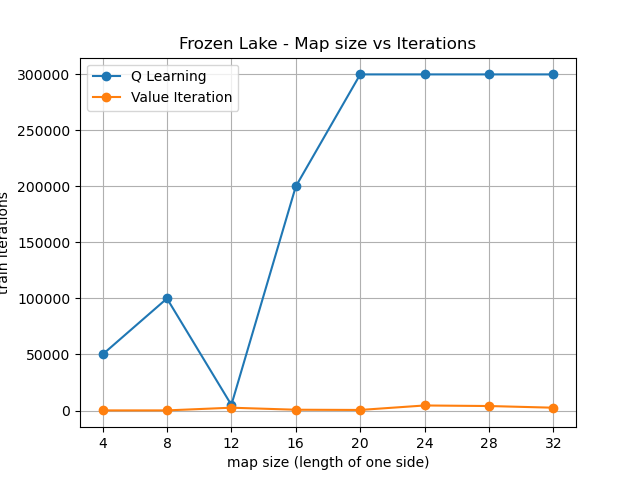
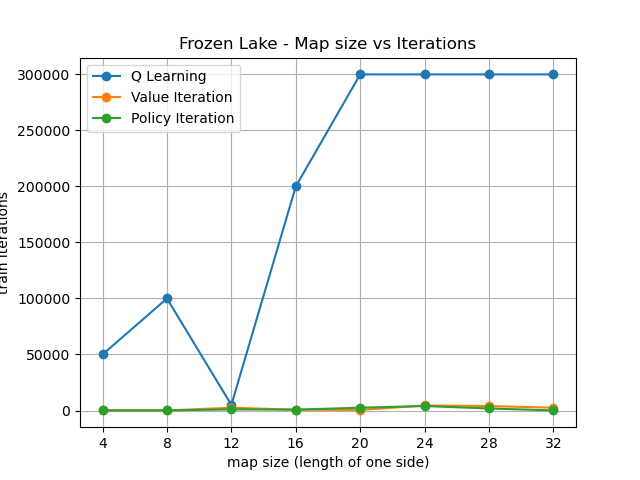
Collected stats for policy iteration

Changed region(s): [[0.1562, 0.8438, 0.875, 0.875], [0.125, 0.2188, 0.375, 0.2812]]

diff --git a/frozen_lake_analysis.py b/frozen_lake_analysis.py
@@ -8,11 +8,13 @@ import matplotlib.pyplot as plt
 
 def mapsize_vs_gameswon(map_p=0.8):
     qlearning = pd.read_json(f'qlearning_stats_{map_p}.json')
-    value_iteration = pd.read_json(f'value_iteration_stats_{map_p}.json')
+    valueit = pd.read_json(f'value_iteration_stats_{map_p}.json')
+    policyit = pd.read_json(f'policy_iteration_stats_{map_p}.json')
 
     df = pd.DataFrame()
     df['Q Learning'] = 100 - qlearning.groupby('map_size').min()['lost_games_perc']
-    df['Value Iteration'] = 100 - value_iteration.groupby('map_size').min()['lost_games_perc']
+    df['Value Iteration'] = 100 - valueit.groupby('map_size').min()['lost_games_perc']
+    df['Policy Iteration'] = 100 - policyit.groupby('map_size').min()['lost_games_perc']
 
     df.plot(marker='o')
     plt.title('Frozen Lake - Map size vs Games won')
@@ -30,6 +32,7 @@ def mapsize_vs_iterations(map_p=0.8):
 
     qlearning = pd.read_json(f'qlearning_stats_{map_p}.json')
     valueit = pd.read_json(f'value_iteration_stats_{map_p}.json')
+    policyit = pd.read_json(f'policy_iteration_stats_{map_p}.json')
 
     qlearning.loc[qlearning['lost_games_perc'] == 100, 'n_episodes'] = 300000
 
@@ -39,9 +42,13 @@ def mapsize_vs_iterations(map_p=0.8):
     valueit_idx = valueit.groupby('map_size').idxmin()['lost_games_perc']
     valueit_mapsize_iters = valueit.iloc[valueit_idx]['max_iters']
 
+    policyit_idx = policyit.groupby('map_size').idxmin()['lost_games_perc']
+    policyit_mapsize_iters = policyit.iloc[policyit_idx]['max_iters']
+
     df = pd.DataFrame(index=[4, 8, 12, 16, 20, 24, 28, 32])
     df['Q Learning'] = qlearning_mapsize_iters.tolist()
     df['Value Iteration'] = valueit_mapsize_iters.tolist()
+    df['Policy Iteration'] = policyit_mapsize_iters.tolist()
 
     df.plot(marker='o')
     plt.title('Frozen Lake - Map size vs Iterations')
@@ -57,6 +64,7 @@ def mapsize_vs_iterations(map_p=0.8):
 def mapsize_vs_nsteps(map_p=0.8):
     qlearning = pd.read_json(f'qlearning_stats_{map_p}.json')
     valueit = pd.read_json(f'value_iteration_stats_{map_p}.json')
+    policyit = pd.read_json(f'policy_iteration_stats_{map_p}.json')
 
     qlearning.loc[qlearning['lost_games_perc'] == 100, 'mean_number_of_steps'] = 999
 
@@ -66,9 +74,13 @@ def mapsize_vs_nsteps(map_p=0.8):
     valueit_idx = valueit.groupby('map_size').idxmin()['lost_games_perc']
     valueit_mapsize_nsteps = valueit.iloc[valueit_idx]['mean_number_of_steps']
 
+    policyit_idx = policyit.groupby('map_size').idxmin()['lost_games_perc']
+    policyit_mapsize_nsteps = policyit.iloc[policyit_idx]['mean_number_of_steps']
+
     df = pd.DataFrame(index=[4, 8, 12, 16, 20, 24, 28, 32])
     df['Q Learning'] = qlearning_mapsize_nsteps.tolist()
     df['Value Iteration'] = valueit_mapsize_nsteps.tolist()
+    df['Policy Iteration'] = policyit_mapsize_nsteps.tolist()
 
     df.plot(marker='o')
     plt.title('Frozen Lake - Map size vs Mean number of steps to goal')
@@ -84,6 +96,7 @@ def mapsize_vs_nsteps(map_p=0.8):
 def mapsize_vs_traintime(map_p=0.8):
     qlearning = pd.read_json(f'qlearning_stats_{map_p}.json')
     valueit = pd.read_json(f'value_iteration_stats_{map_p}.json')
+    policyit = pd.read_json(f'policy_iteration_stats_{map_p}.json')
 
     # qlearning.loc[qlearning['lost_games_perc'] == 100, 'mean_number_of_steps'] = 999
 
@@ -93,9 +106,13 @@ def mapsize_vs_traintime(map_p=0.8):
     valueit_idx = valueit.groupby('map_size').idxmin()['lost_games_perc']
     valueit_mapsize_time = valueit.iloc[valueit_idx]['time']
 
+    policyit_idx = policyit.groupby('map_size').idxmin()['lost_games_perc']
+    policyit_mapsize_time = policyit.iloc[policyit_idx]['time']
+
     df = pd.DataFrame(index=[4, 8, 12, 16, 20, 24, 28, 32])
     df['Q Learning'] = qlearning_mapsize_time.tolist()
     df['Value Iteration'] = valueit_mapsize_time.tolist()
+    df['Policy Iteration'] = policyit_mapsize_time.tolist()
 
     df.plot(marker='o')
     plt.title('Frozen Lake - Map size vs Time required to train')
@@ -111,7 +128,7 @@ def mapsize_vs_traintime(map_p=0.8):
 
 
 if __name__ == '__main__':
-    # mapsize_vs_gameswon()
-    # mapsize_vs_iterations()
-    # mapsize_vs_nsteps()
+    mapsize_vs_gameswon()
+    mapsize_vs_iterations()
+    mapsize_vs_nsteps()
     mapsize_vs_traintime()

diff --git a/frozen_lake.py b/frozen_lake.py
@@ -182,9 +182,9 @@ def analyze_value_iteration(map_p=0.8):
 ########################################
 
 def run_policy_iteration(env, discount_factor=0.9999, max_iters=1000):
-    optimal_policy, optimal_value_function, converged = policy_improvement(env, discount_factor=discount_factor, max_iters=max_iters)
+    optimal_policy, optimal_value_function, converged, timed_out = policy_improvement(env, discount_factor=discount_factor, max_iters=max_iters)
     optimal_policy_flat = np.where(optimal_policy == 1)[1]
-    return optimal_policy_flat, converged
+    return optimal_policy_flat, converged, timed_out
 
 
 def analyze_policy_iteration(map_p=0.8):
@@ -201,7 +201,7 @@ def analyze_policy_iteration(map_p=0.8):
             print(f'Running policy iteration for map_size={map_size} and max_iters={max_iters}...')
             env = create_env(map)
             start = timer()
-            policy, converged = run_policy_iteration(env, max_iters=max_iters)
+            policy, converged, timed_out = run_policy_iteration(env, max_iters=max_iters)
             end = timer()
             mean_number_of_steps, lost_games_perc = score_frozen_lake(env, policy)
             results.append({
@@ -209,6 +209,7 @@ def analyze_policy_iteration(map_p=0.8):
                 'map_size': map_size,
                 'max_iters': max_iters,
                 'converged': converged,
+                'timed_out': timed_out,
                 'mean_number_of_steps': mean_number_of_steps,
                 'lost_games_perc': lost_games_perc,
                 'time': end - start

diff --git a/policy_iteration.py b/policy_iteration.py
@@ -2,6 +2,7 @@
 # https://github.com/dennybritz/reinforcement-learning
 
 import numpy as np
+from timeit import default_timer as timer
 
 
 def policy_eval(policy, env, discount_factor=1.0, theta=0.00001):
@@ -80,7 +81,9 @@ def policy_improvement(env, policy_eval_fn=policy_eval, discount_factor=1.0, max
         return A
 
     # Start with a random policy
+    start_time = timer()
     converged = False
+    timed_out = False
     policy = np.ones([env.nS, env.nA]) / env.nA
 
     for i in range(max_iters):
@@ -107,7 +110,16 @@ def policy_improvement(env, policy_eval_fn=policy_eval, discount_factor=1.0, max
 
         # If the policy is stable we've found an optimal policy. Return it
         if policy_stable:
+            print('CONVERGED!')
             converged = True
             break
 
-    return policy, V, converged
+        if timer() - start_time > 180:
+            print('TIMED OUT!')
+            timed_out = True
+            break
+
+    if i >= max_iters:
+        print('REACHED MAX ITERS!')
+
+    return policy, V, converged, timed_out
